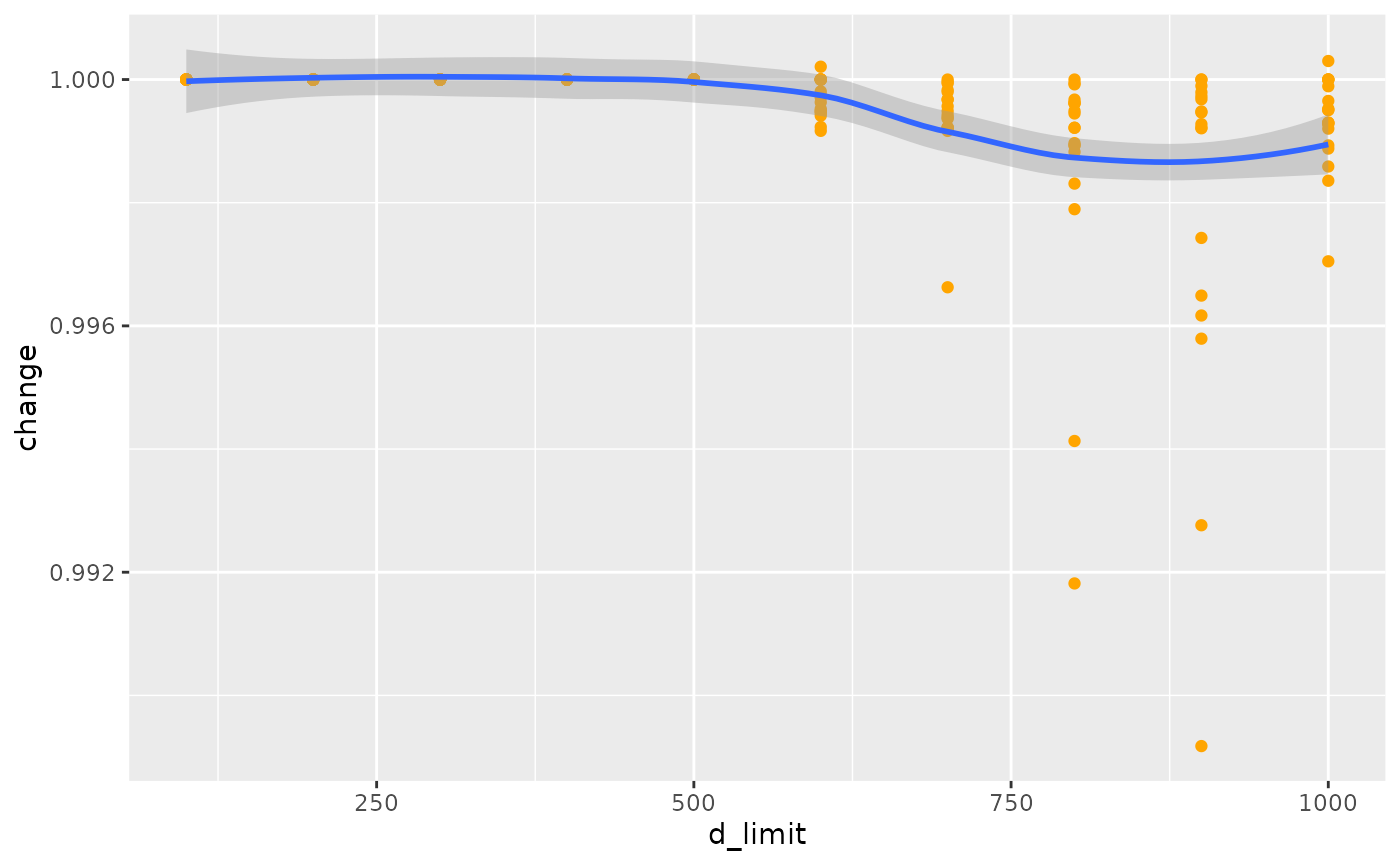
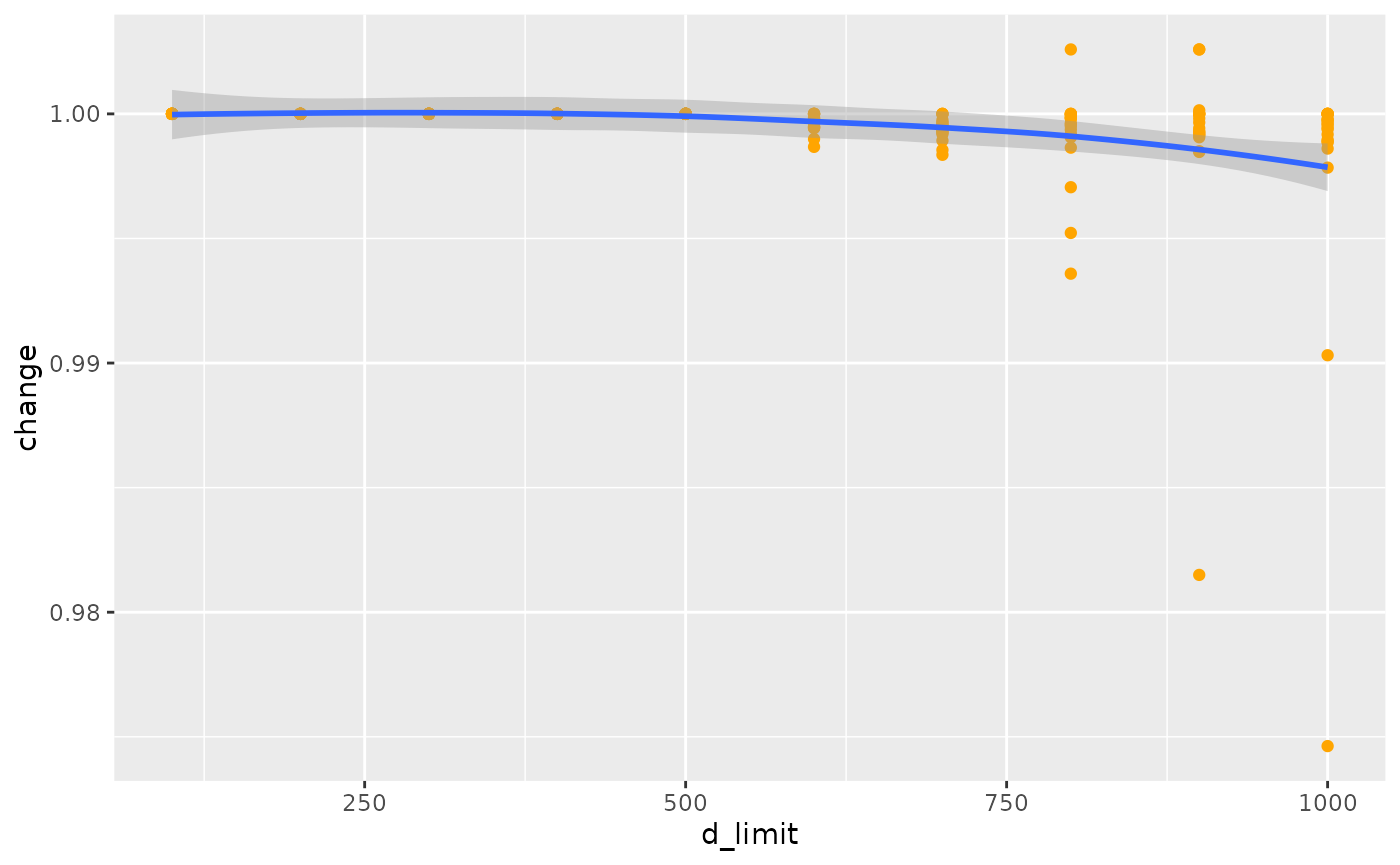
Deploying to gh-pages from @ ATFutures/gtfs-router@851826eefc65c9148941717a89f5a89530f40ce4 🚀

diff --git a/docs/articles/transfers.html b/docs/articles/transfers.html
@@ -33,7 +33,7 @@
       </button>
       <span class="navbar-brand">
         <a class="navbar-link" href="../index.html">gtfsrouter</a>
-        <span class="version label label-default" data-toggle="tooltip" data-placement="bottom" title="">0.0.5.118</span>
+        <span class="version label label-default" data-toggle="tooltip" data-placement="bottom" title="">0.0.5.119</span>
       </span>
     </div>
 
@@ -447,7 +447,7 @@
 <span>    <span class="fu"><a href="https://ggplot2.tidyverse.org/reference/scale_continuous.html" class="external-link">scale_y_log10</a></span> <span class="op">(</span><span class="op">)</span> <span class="op">+</span></span>
 <span>    <span class="fu"><a href="https://ggplot2.tidyverse.org/reference/labs.html" class="external-link">xlab</a></span> <span class="op">(</span><span class="st">"time difference (minutes)"</span><span class="op">)</span></span></code></pre></div>
 <p><img src="transfers_files/figure-html/plot1-1.png" width="700"></p>
-<p>And these additional transfer possibilities can make a significant difference to estimated travel times. Note, however, that the travel times only changed for 533 stations, while the value of <code>nsame</code> value recording numbers of stations for which travel times did not change was 3,489. Travel times may also increase as additional transfers may be used to reduce numbers of connecting services required for a particular trip, and the algorithm generally searches for connections with minimal numbers of transfers.</p>
+<p>And these additional transfer possibilities can make a significant difference to estimated travel times. Note, however, that the travel times only changed for 951 stations, while the value of <code>nsame</code> value recording numbers of stations for which travel times did not change was 4,911. Travel times may also increase as additional transfers may be used to reduce numbers of connecting services required for a particular trip, and the algorithm generally searches for connections with minimal numbers of transfers.</p>
 <p>The following code the quantifies the overall effect of these reductions in travel times, measured as the linear reduction in comparison with travel times calculated using the original transfers table provided with the feed. The function also returns the proportion of all stations for which travel times were affected by the modified transfer table.</p>
 <div class="sourceCode" id="cb42"><pre class="downlit sourceCode r">
 <code class="sourceCode R"><span><span class="va">transfer_difference</span> <span class="op">&lt;-</span> <span class="kw">function</span> <span class="op">(</span><span class="va">gtfs</span>,</span>
@@ -514,7 +514,7 @@
 <span>    <span class="fu"><a href="https://ggplot2.tidyverse.org/reference/geom_point.html" class="external-link">geom_point</a></span> <span class="op">(</span>pch <span class="op">=</span> <span class="fl">19</span>, col <span class="op">=</span> <span class="st">"orange"</span><span class="op">)</span> <span class="op">+</span></span>
 <span>    <span class="fu"><a href="https://ggplot2.tidyverse.org/reference/geom_smooth.html" class="external-link">geom_smooth</a></span> <span class="op">(</span>method <span class="op">=</span> <span class="st">"loess"</span>, formula <span class="op">=</span> <span class="st">"y ~ x"</span><span class="op">)</span></span></code></pre></div>
 <p><img src="transfers_files/figure-html/transfer_d_limit_results-1.png" width="700"></p>
-<p>That result shows that travel times do decrease with increasing limits of maximal transfer distance, although the overall effect is very minimal. The object <code>d</code> also records the proportion of station pairs for which modifications to the transfers table actually changed travel times, which in this case amounts to a mean value of 0.0044, clearly revealing that very few trips actually change.</p>
+<p>That result shows that travel times do decrease with increasing limits of maximal transfer distance, although the overall effect is very minimal. The object <code>d</code> also records the proportion of station pairs for which modifications to the transfers table actually changed travel times, which in this case amounts to a mean value of 0.007, clearly revealing that very few trips actually change.</p>
 <div class="section level3">
 <h3 id="a-more-realistic-example">A more realistic example<a class="anchor" aria-label="anchor" href="#a-more-realistic-example"></a>
 </h3>

diff --git a/docs/articles/gtfsrouter.html b/docs/articles/gtfsrouter.html
@@ -33,7 +33,7 @@
       </button>
       <span class="navbar-brand">
         <a class="navbar-link" href="../index.html">gtfsrouter</a>
-        <span class="version label label-default" data-toggle="tooltip" data-placement="bottom" title="">0.0.5.118</span>
+        <span class="version label label-default" data-toggle="tooltip" data-placement="bottom" title="">0.0.5.119</span>
       </span>
     </div>
 
@@ -95,7 +95,7 @@
 <p>The one thing neither of these packages enable is the use of GTFS data for transit routing. The <code>gtfsrouter</code> package enables both one-to-one and one-to-many routing. Functionality is demonstrated here through the sample data set included with the package, provided by the “Verkehrsverbund Berlin-Brandenburg” (VBB; or Transport Network Berlin-Brandenburg). The <code>berlin_gtfs</code> data represents a reduced version of the full GTFS data, containing only six tables, and a timetable reduced to the single hour between 12:00-13:00. Like all GTFS software including <a href="https://github.com/r-transit/tidytransit" class="external-link"><code>tidytransit</code></a>, this package is designed to work directly with GTFS data in <code>.zip</code>-archived format, and so includes a helper function, <code><a href="../reference/berlin_gtfs_to_zip.html">berlin_gtfs_to_zip()</a></code>, which exports the internal data set to a locally-stored <code>.zip</code> archive in the <code><a href="https://rdrr.io/r/base/tempfile.html" class="external-link">tempdir()</a></code> of the current <strong>R</strong> session. These data can be exported and re-imported with:</p>
 <div class="sourceCode" id="cb1"><pre class="downlit sourceCode r">
 <code class="sourceCode R"><span><span class="fu"><a href="../reference/berlin_gtfs_to_zip.html">berlin_gtfs_to_zip</a></span><span class="op">(</span><span class="op">)</span></span></code></pre></div>
-<pre><code><span><span class="co">## [1] "/tmp/RtmpvuOiKe/vbb.zip"</span></span></code></pre>
+<pre><code><span><span class="co">## [1] "/tmp/RtmpJLl44e/vbb.zip"</span></span></code></pre>
 <div class="sourceCode" id="cb3"><pre class="downlit sourceCode r">
 <code class="sourceCode R"><span><span class="va">f</span> <span class="op">&lt;-</span> <span class="fu"><a href="https://rdrr.io/r/base/file.path.html" class="external-link">file.path</a></span> <span class="op">(</span><span class="fu"><a href="https://rdrr.io/r/base/tempfile.html" class="external-link">tempdir</a></span> <span class="op">(</span><span class="op">)</span>, <span class="st">"vbb.zip"</span><span class="op">)</span></span>
 <span><span class="fu"><a href="https://rdrr.io/r/base/files.html" class="external-link">file.exists</a></span> <span class="op">(</span><span class="va">f</span><span class="op">)</span></span></code></pre></div>
@@ -286,7 +286,7 @@
 <span>                day <span class="op">=</span> <span class="st">"Sunday"</span><span class="op">)</span></span>
 <span>    <span class="op">)</span></span></code></pre></div>
 <pre><code><span><span class="co">##    user  system elapsed </span></span>
-<span><span class="co">##   0.051   0.000   0.051</span></span></code></pre>
+<span><span class="co">##   0.052   0.000   0.051</span></span></code></pre>
 <div class="sourceCode" id="cb14"><pre class="downlit sourceCode r">
 <code class="sourceCode R"><span><span class="fu"><a href="https://rdrr.io/r/base/names.html" class="external-link">names</a></span> <span class="op">(</span><span class="va">gtfs</span><span class="op">)</span></span></code></pre></div>
 <pre><code><span><span class="co">## [1] "calendar"   "routes"     "trips"      "stop_times" "stops"     </span></span>
@@ -304,7 +304,7 @@
 <span>                         to <span class="op">=</span> <span class="va">to</span>,</span>
 <span>                         start_time <span class="op">=</span> <span class="st">"12:00:00"</span><span class="op">)</span><span class="op">)</span></span></code></pre></div>
 <pre><code><span><span class="co">##    user  system elapsed </span></span>
-<span><span class="co">##   0.040   0.000   0.041</span></span></code></pre>
+<span><span class="co">##   0.041   0.000   0.041</span></span></code></pre>
 <p>Note that the <code>day</code> parameter is used to extract the timetable, after which it is no longer required in the actual call to <code><a href="../reference/gtfs_route.html">gtfs_route()</a></code>.</p>
 </div>
 <div class="section level3">

diff --git a/docs/reference/gtfs_transfer_table.html b/docs/reference/gtfs_transfer_table.html
@@ -17,7 +17,7 @@
       </button>
       <span class="navbar-brand">
         <a class="navbar-link" href="../index.html">gtfsrouter</a>
-        <span class="version label label-default" data-toggle="tooltip" data-placement="bottom" title="">0.0.5.118</span>
+        <span class="version label label-default" data-toggle="tooltip" data-placement="bottom" title="">0.0.5.119</span>
       </span>
     </div>
 
@@ -112,7 +112,7 @@ throughout the underlying street network. If this is not provided as the
     <div id="ref-examples">
     <h2>Examples</h2>
     <div class="sourceCode"><pre class="sourceCode r"><code><span class="r-in"><span><span class="fu"><a href="berlin_gtfs_to_zip.html">berlin_gtfs_to_zip</a></span> <span class="op">(</span><span class="op">)</span></span></span>
-<span class="r-out co"><span class="r-pr">#&gt;</span> [1] "/tmp/RtmpVX691m/vbb.zip"</span>
+<span class="r-out co"><span class="r-pr">#&gt;</span> [1] "/tmp/RtmpJlhrRj/vbb.zip"</span>
 <span class="r-in"><span><span class="va">f</span> <span class="op">&lt;-</span> <span class="fu"><a href="https://rdrr.io/r/base/file.path.html" class="external-link">file.path</a></span> <span class="op">(</span><span class="fu"><a href="https://rdrr.io/r/base/tempfile.html" class="external-link">tempdir</a></span> <span class="op">(</span><span class="op">)</span>, <span class="st">"vbb.zip"</span><span class="op">)</span></span></span>
 <span class="r-in"><span><span class="va">g</span> <span class="op">&lt;-</span> <span class="fu"><a href="extract_gtfs.html">extract_gtfs</a></span> <span class="op">(</span><span class="va">f</span>, quiet <span class="op">=</span> <span class="cn">TRUE</span><span class="op">)</span></span></span>
 <span class="r-in"><span><span class="va">g</span> <span class="op">&lt;-</span> <span class="fu">gtfs_transfer_table</span> <span class="op">(</span><span class="va">g</span>, d_limit <span class="op">=</span> <span class="fl">200</span><span class="op">)</span></span></span>

diff --git a/docs/reference/gtfs_route.html b/docs/reference/gtfs_route.html
@@ -18,7 +18,7 @@ a specified time."><!-- mathjax --><script src="https://cdnjs.cloudflare.com/aja
       </button>
       <span class="navbar-brand">
         <a class="navbar-link" href="../index.html">gtfsrouter</a>
-        <span class="version label label-default" data-toggle="tooltip" data-placement="bottom" title="">0.0.5.118</span>
+        <span class="version label label-default" data-toggle="tooltip" data-placement="bottom" title="">0.0.5.119</span>
       </span>
     </div>
 
@@ -182,7 +182,7 @@ can be calculated by setting <code>earliest_arrival = FALSE</code>.</p>
     <div id="ref-examples">
     <h2>Examples</h2>
     <div class="sourceCode"><pre class="sourceCode r"><code><span class="r-in"><span><span class="fu"><a href="berlin_gtfs_to_zip.html">berlin_gtfs_to_zip</a></span> <span class="op">(</span><span class="op">)</span> <span class="co"># Write sample feed from Berlin, Germany to tempdir</span></span></span>
-<span class="r-out co"><span class="r-pr">#&gt;</span> [1] "/tmp/RtmpVX691m/vbb.zip"</span>
+<span class="r-out co"><span class="r-pr">#&gt;</span> [1] "/tmp/RtmpJlhrRj/vbb.zip"</span>
 <span class="r-in"><span><span class="va">f</span> <span class="op">&lt;-</span> <span class="fu"><a href="https://rdrr.io/r/base/file.path.html" class="external-link">file.path</a></span> <span class="op">(</span><span class="fu"><a href="https://rdrr.io/r/base/tempfile.html" class="external-link">tempdir</a></span> <span class="op">(</span><span class="op">)</span>, <span class="st">"vbb.zip"</span><span class="op">)</span> <span class="co"># name of feed</span></span></span>
 <span class="r-in"><span><span class="va">gtfs</span> <span class="op">&lt;-</span> <span class="fu"><a href="extract_gtfs.html">extract_gtfs</a></span> <span class="op">(</span><span class="va">f</span><span class="op">)</span></span></span>
 <span class="r-msg co"><span class="r-pr">#&gt;</span> ▶<span style="color: #00BB00;"> Unzipping GTFS archive</span></span>

diff --git a/docs/articles/traveltimes.html b/docs/articles/traveltimes.html
@@ -33,7 +33,7 @@
       </button>
       <span class="navbar-brand">
         <a class="navbar-link" href="../index.html">gtfsrouter</a>
-        <span class="version label label-default" data-toggle="tooltip" data-placement="bottom" title="">0.0.5.118</span>
+        <span class="version label label-default" data-toggle="tooltip" data-placement="bottom" title="">0.0.5.119</span>
       </span>
     </div>
 
@@ -86,7 +86,7 @@
 <div class="sourceCode" id="cb1"><pre class="downlit sourceCode r">
 <code class="sourceCode R"><span><span class="kw"><a href="https://rdrr.io/r/base/library.html" class="external-link">library</a></span> <span class="op">(</span><span class="va"><a href="https://github.com/ATFutures/gtfs-router" class="external-link">gtfsrouter</a></span><span class="op">)</span></span>
 <span><span class="fu"><a href="../reference/berlin_gtfs_to_zip.html">berlin_gtfs_to_zip</a></span> <span class="op">(</span><span class="op">)</span></span></code></pre></div>
-<pre><code><span><span class="co">## [1] "/tmp/RtmpnYCqxN/vbb.zip"</span></span></code></pre>
+<pre><code><span><span class="co">## [1] "/tmp/RtmpgaKOJ2/vbb.zip"</span></span></code></pre>
 <div class="sourceCode" id="cb3"><pre class="downlit sourceCode r">
 <code class="sourceCode R"><span><span class="va">f</span> <span class="op">&lt;-</span> <span class="fu"><a href="https://rdrr.io/r/base/file.path.html" class="external-link">file.path</a></span> <span class="op">(</span><span class="fu"><a href="https://rdrr.io/r/base/tempfile.html" class="external-link">tempdir</a></span> <span class="op">(</span><span class="op">)</span>, <span class="st">"vbb.zip"</span><span class="op">)</span></span>
 <span><span class="va">gtfs</span> <span class="op">&lt;-</span> <span class="fu"><a href="../reference/extract_gtfs.html">extract_gtfs</a></span> <span class="op">(</span><span class="va">f</span>, quiet <span class="op">=</span> <span class="cn">TRUE</span><span class="op">)</span></span>

diff --git a/docs/reference/berlin_gtfs.html b/docs/reference/berlin_gtfs.html
@@ -23,7 +23,7 @@ characters.'><!-- mathjax --><script src="https://cdnjs.cloudflare.com/ajax/libs
       </button>
       <span class="navbar-brand">
         <a class="navbar-link" href="../index.html">gtfsrouter</a>
-        <span class="version label label-default" data-toggle="tooltip" data-placement="bottom" title="">0.0.5.118</span>
+        <span class="version label label-default" data-toggle="tooltip" data-placement="bottom" title="">0.0.5.119</span>
       </span>
     </div>
 
@@ -96,7 +96,7 @@ for which no route is possible return <code>NULL</code>.</p>
     <div id="ref-examples">
     <h2>Examples</h2>
     <div class="sourceCode"><pre class="sourceCode r"><code><span class="r-in"><span><span class="fu"><a href="berlin_gtfs_to_zip.html">berlin_gtfs_to_zip</a></span> <span class="op">(</span><span class="op">)</span> <span class="co"># Write sample feed from Berlin, Germany to tempdir</span></span></span>
-<span class="r-out co"><span class="r-pr">#&gt;</span> [1] "/tmp/RtmpVX691m/vbb.zip"</span>
+<span class="r-out co"><span class="r-pr">#&gt;</span> [1] "/tmp/RtmpJlhrRj/vbb.zip"</span>
 <span class="r-in"><span><span class="va">f</span> <span class="op">&lt;-</span> <span class="fu"><a href="https://rdrr.io/r/base/file.path.html" class="external-link">file.path</a></span> <span class="op">(</span><span class="fu"><a href="https://rdrr.io/r/base/tempfile.html" class="external-link">tempdir</a></span> <span class="op">(</span><span class="op">)</span>, <span class="st">"vbb.zip"</span><span class="op">)</span> <span class="co"># name of feed</span></span></span>
 <span class="r-in"><span><span class="va">gtfs</span> <span class="op">&lt;-</span> <span class="fu"><a href="extract_gtfs.html">extract_gtfs</a></span> <span class="op">(</span><span class="va">f</span><span class="op">)</span></span></span>
 <span class="r-msg co"><span class="r-pr">#&gt;</span> ▶<span style="color: #00BB00;"> Unzipping GTFS archive</span></span>

diff --git a/docs/reference/gtfs_timetable.html b/docs/reference/gtfs_timetable.html
@@ -17,7 +17,7 @@
       </button>
       <span class="navbar-brand">
         <a class="navbar-link" href="../index.html">gtfsrouter</a>
-        <span class="version label label-default" data-toggle="tooltip" data-placement="bottom" title="">0.0.5.118</span>
+        <span class="version label label-default" data-toggle="tooltip" data-placement="bottom" title="">0.0.5.119</span>
       </span>
     </div>
 
@@ -126,7 +126,7 @@ that case will generally take longer.</p>
     <div id="ref-examples">
     <h2>Examples</h2>
     <div class="sourceCode"><pre class="sourceCode r"><code><span class="r-in"><span><span class="fu"><a href="berlin_gtfs_to_zip.html">berlin_gtfs_to_zip</a></span> <span class="op">(</span><span class="op">)</span> <span class="co"># Write sample feed from Berlin, Germany to tempdir</span></span></span>
-<span class="r-out co"><span class="r-pr">#&gt;</span> [1] "/tmp/RtmpVX691m/vbb.zip"</span>
+<span class="r-out co"><span class="r-pr">#&gt;</span> [1] "/tmp/RtmpJlhrRj/vbb.zip"</span>
 <span class="r-in"><span><span class="va">f</span> <span class="op">&lt;-</span> <span class="fu"><a href="https://rdrr.io/r/base/file.path.html" class="external-link">file.path</a></span> <span class="op">(</span><span class="fu"><a href="https://rdrr.io/r/base/tempfile.html" class="external-link">tempdir</a></span> <span class="op">(</span><span class="op">)</span>, <span class="st">"vbb.zip"</span><span class="op">)</span> <span class="co"># name of feed</span></span></span>
 <span class="r-in"><span><span class="va">gtfs</span> <span class="op">&lt;-</span> <span class="fu"><a href="extract_gtfs.html">extract_gtfs</a></span> <span class="op">(</span><span class="va">f</span><span class="op">)</span></span></span>
 <span class="r-msg co"><span class="r-pr">#&gt;</span> ▶<span style="color: #00BB00;"> Unzipping GTFS archive</span></span>

diff --git a/docs/reference/gtfs_traveltimes.html b/docs/reference/gtfs_traveltimes.html
@@ -18,7 +18,7 @@ other reachable station in a system."><!-- mathjax --><script src="https://cdnjs
       </button>
       <span class="navbar-brand">
         <a class="navbar-link" href="../index.html">gtfsrouter</a>
-        <span class="version label label-default" data-toggle="tooltip" data-placement="bottom" title="">0.0.5.118</span>
+        <span class="version label label-default" data-toggle="tooltip" data-placement="bottom" title="">0.0.5.119</span>
       </span>
     </div>
 
@@ -155,7 +155,7 @@ to reach all or most stations desired for a particular query, rather than set
     <div id="ref-examples">
     <h2>Examples</h2>
     <div class="sourceCode"><pre class="sourceCode r"><code><span class="r-in"><span><span class="fu"><a href="berlin_gtfs_to_zip.html">berlin_gtfs_to_zip</a></span> <span class="op">(</span><span class="op">)</span></span></span>
-<span class="r-out co"><span class="r-pr">#&gt;</span> [1] "/tmp/RtmpVX691m/vbb.zip"</span>
+<span class="r-out co"><span class="r-pr">#&gt;</span> [1] "/tmp/RtmpJlhrRj/vbb.zip"</span>
 <span class="r-in"><span><span class="va">f</span> <span class="op">&lt;-</span> <span class="fu"><a href="https://rdrr.io/r/base/file.path.html" class="external-link">file.path</a></span> <span class="op">(</span><span class="fu"><a href="https://rdrr.io/r/base/tempfile.html" class="external-link">tempdir</a></span> <span class="op">(</span><span class="op">)</span>, <span class="st">"vbb.zip"</span><span class="op">)</span></span></span>
 <span class="r-in"><span><span class="va">g</span> <span class="op">&lt;-</span> <span class="fu"><a href="extract_gtfs.html">extract_gtfs</a></span> <span class="op">(</span><span class="va">f</span><span class="op">)</span></span></span>
 <span class="r-msg co"><span class="r-pr">#&gt;</span> ▶<span style="color: #00BB00;"> Unzipping GTFS archive</span></span>

diff --git a/docs/reference/extract_gtfs.html b/docs/reference/extract_gtfs.html
@@ -17,7 +17,7 @@
       </button>
       <span class="navbar-brand">
         <a class="navbar-link" href="../index.html">gtfsrouter</a>
-        <span class="version label label-default" data-toggle="tooltip" data-placement="bottom" title="">0.0.5.118</span>
+        <span class="version label label-default" data-toggle="tooltip" data-placement="bottom" title="">0.0.5.119</span>
       </span>
     </div>
 
@@ -102,7 +102,7 @@ function to the two time columns of the "stop_times" table.</p>
     <div id="ref-examples">
     <h2>Examples</h2>
     <div class="sourceCode"><pre class="sourceCode r"><code><span class="r-in"><span><span class="fu"><a href="berlin_gtfs_to_zip.html">berlin_gtfs_to_zip</a></span> <span class="op">(</span><span class="op">)</span> <span class="co"># Write sample feed from Berlin, Germany to tempdir</span></span></span>
-<span class="r-out co"><span class="r-pr">#&gt;</span> [1] "/tmp/RtmpVX691m/vbb.zip"</span>
+<span class="r-out co"><span class="r-pr">#&gt;</span> [1] "/tmp/RtmpJlhrRj/vbb.zip"</span>
 <span class="r-in"><span><span class="va">f</span> <span class="op">&lt;-</span> <span class="fu"><a href="https://rdrr.io/r/base/file.path.html" class="external-link">file.path</a></span> <span class="op">(</span><span class="fu"><a href="https://rdrr.io/r/base/tempfile.html" class="external-link">tempdir</a></span> <span class="op">(</span><span class="op">)</span>, <span class="st">"vbb.zip"</span><span class="op">)</span> <span class="co"># name of feed</span></span></span>
 <span class="r-in"><span><span class="va">gtfs</span> <span class="op">&lt;-</span> <span class="fu">extract_gtfs</span> <span class="op">(</span><span class="va">f</span><span class="op">)</span></span></span>
 <span class="r-msg co"><span class="r-pr">#&gt;</span> ▶<span style="color: #00BB00;"> Unzipping GTFS archive</span></span>

diff --git a/docs/reference/summary.gtfs.html b/docs/reference/summary.gtfs.html
@@ -17,7 +17,7 @@
       </button>
       <span class="navbar-brand">
         <a class="navbar-link" href="../index.html">gtfsrouter</a>
-        <span class="version label label-default" data-toggle="tooltip" data-placement="bottom" title="">0.0.5.118</span>
+        <span class="version label label-default" data-toggle="tooltip" data-placement="bottom" title="">0.0.5.119</span>
       </span>
     </div>
 
@@ -81,7 +81,7 @@
     <div id="ref-examples">
     <h2>Examples</h2>
     <div class="sourceCode"><pre class="sourceCode r"><code><span class="r-in"><span><span class="fu"><a href="berlin_gtfs_to_zip.html">berlin_gtfs_to_zip</a></span> <span class="op">(</span><span class="op">)</span></span></span>
-<span class="r-out co"><span class="r-pr">#&gt;</span> [1] "/tmp/RtmpVX691m/vbb.zip"</span>
+<span class="r-out co"><span class="r-pr">#&gt;</span> [1] "/tmp/RtmpJlhrRj/vbb.zip"</span>
 <span class="r-in"><span><span class="va">f</span> <span class="op">&lt;-</span> <span class="fu"><a href="https://rdrr.io/r/base/file.path.html" class="external-link">file.path</a></span> <span class="op">(</span><span class="fu"><a href="https://rdrr.io/r/base/tempfile.html" class="external-link">tempdir</a></span> <span class="op">(</span><span class="op">)</span>, <span class="st">"vbb.zip"</span><span class="op">)</span></span></span>
 <span class="r-in"><span><span class="va">g</span> <span class="op">&lt;-</span> <span class="fu"><a href="extract_gtfs.html">extract_gtfs</a></span> <span class="op">(</span><span class="va">f</span><span class="op">)</span></span></span>
 <span class="r-msg co"><span class="r-pr">#&gt;</span> ▶<span style="color: #00BB00;"> Unzipping GTFS archive</span></span>

diff --git a/docs/authors.html b/docs/authors.html
@@ -17,7 +17,7 @@
       </button>
       <span class="navbar-brand">
         <a class="navbar-link" href="index.html">gtfsrouter</a>
-        <span class="version label label-default" data-toggle="tooltip" data-placement="bottom" title="">0.0.5.118</span>
+        <span class="version label label-default" data-toggle="tooltip" data-placement="bottom" title="">0.0.5.119</span>
       </span>
     </div>
 
@@ -74,13 +74,13 @@
 
     <p>Padgham M, Stepniak M (2022).
 <em>gtfsrouter: Routing with GTFS (General Transit Feed Specification) Data</em>.
-R package version 0.0.5.118, <a href="https://github.com/ATFutures/gtfs-router" class="external-link">https://github.com/ATFutures/gtfs-router</a>. 
+R package version 0.0.5.119, <a href="https://github.com/ATFutures/gtfs-router" class="external-link">https://github.com/ATFutures/gtfs-router</a>. 
 </p>
     <pre>@Manual{,
   title = {gtfsrouter: Routing with GTFS (General Transit Feed Specification) Data},
   author = {Mark Padgham and Marcin Stepniak},
   year = {2022},
-  note = {R package version 0.0.5.118},
+  note = {R package version 0.0.5.119},
   url = {https://github.com/ATFutures/gtfs-router},
 }</pre>
 

diff --git a/docs/reference/berlin_gtfs_to_zip.html b/docs/reference/berlin_gtfs_to_zip.html
@@ -18,7 +18,7 @@ a file named "vbb.zip" to tempdir().'><!-- mathjax --><script src="https://cdnjs
       </button>
       <span class="navbar-brand">
         <a class="navbar-link" href="../index.html">gtfsrouter</a>
-        <span class="version label label-default" data-toggle="tooltip" data-placement="bottom" title="">0.0.5.118</span>
+        <span class="version label label-default" data-toggle="tooltip" data-placement="bottom" title="">0.0.5.119</span>
       </span>
     </div>
 
